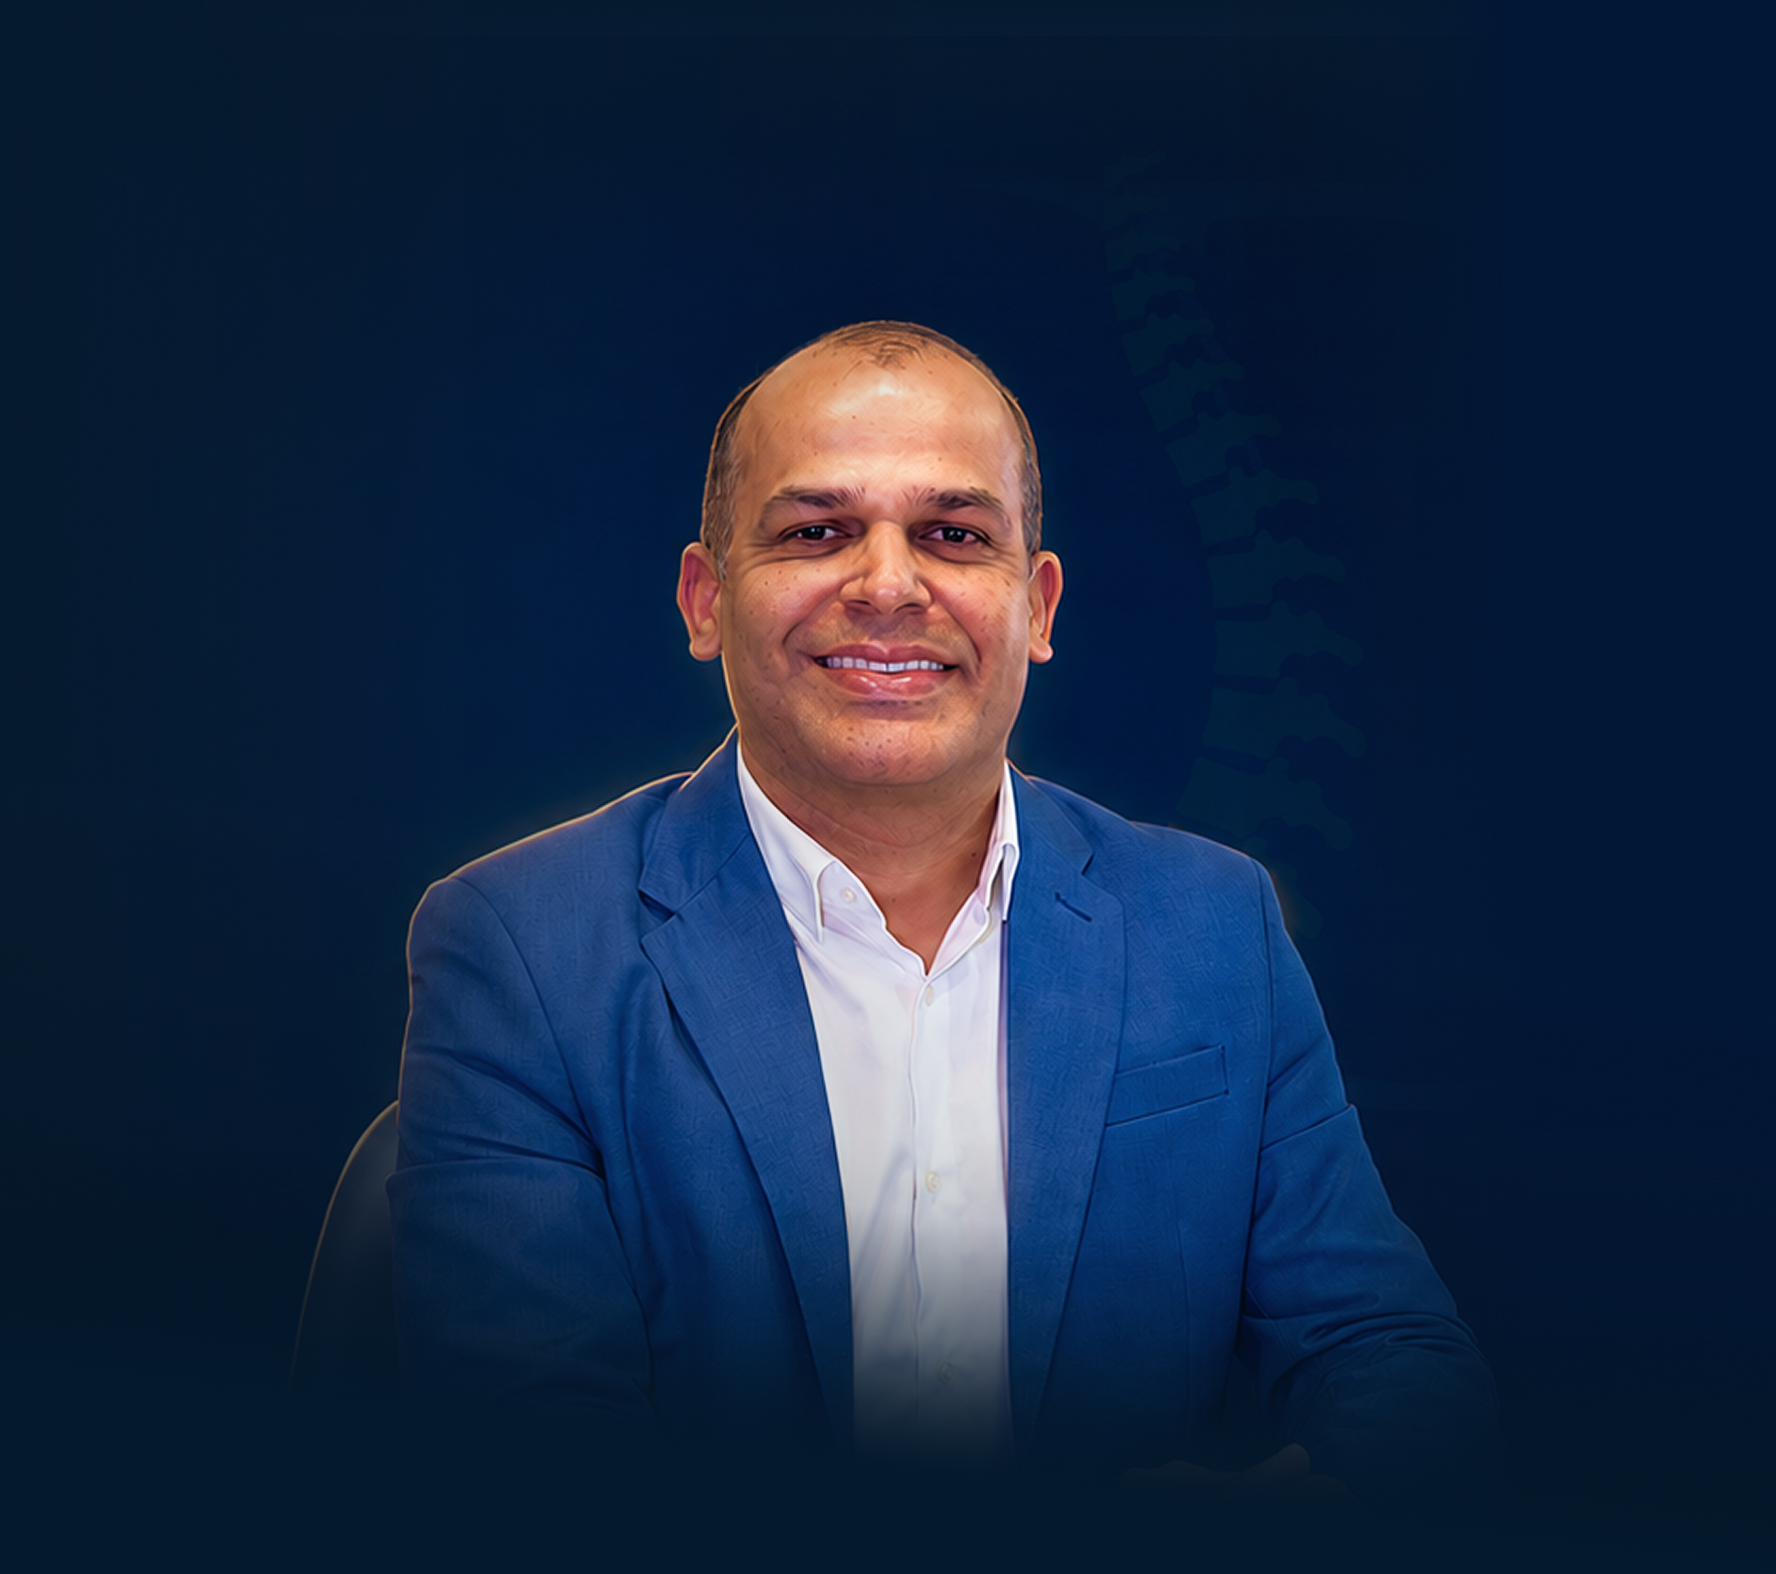
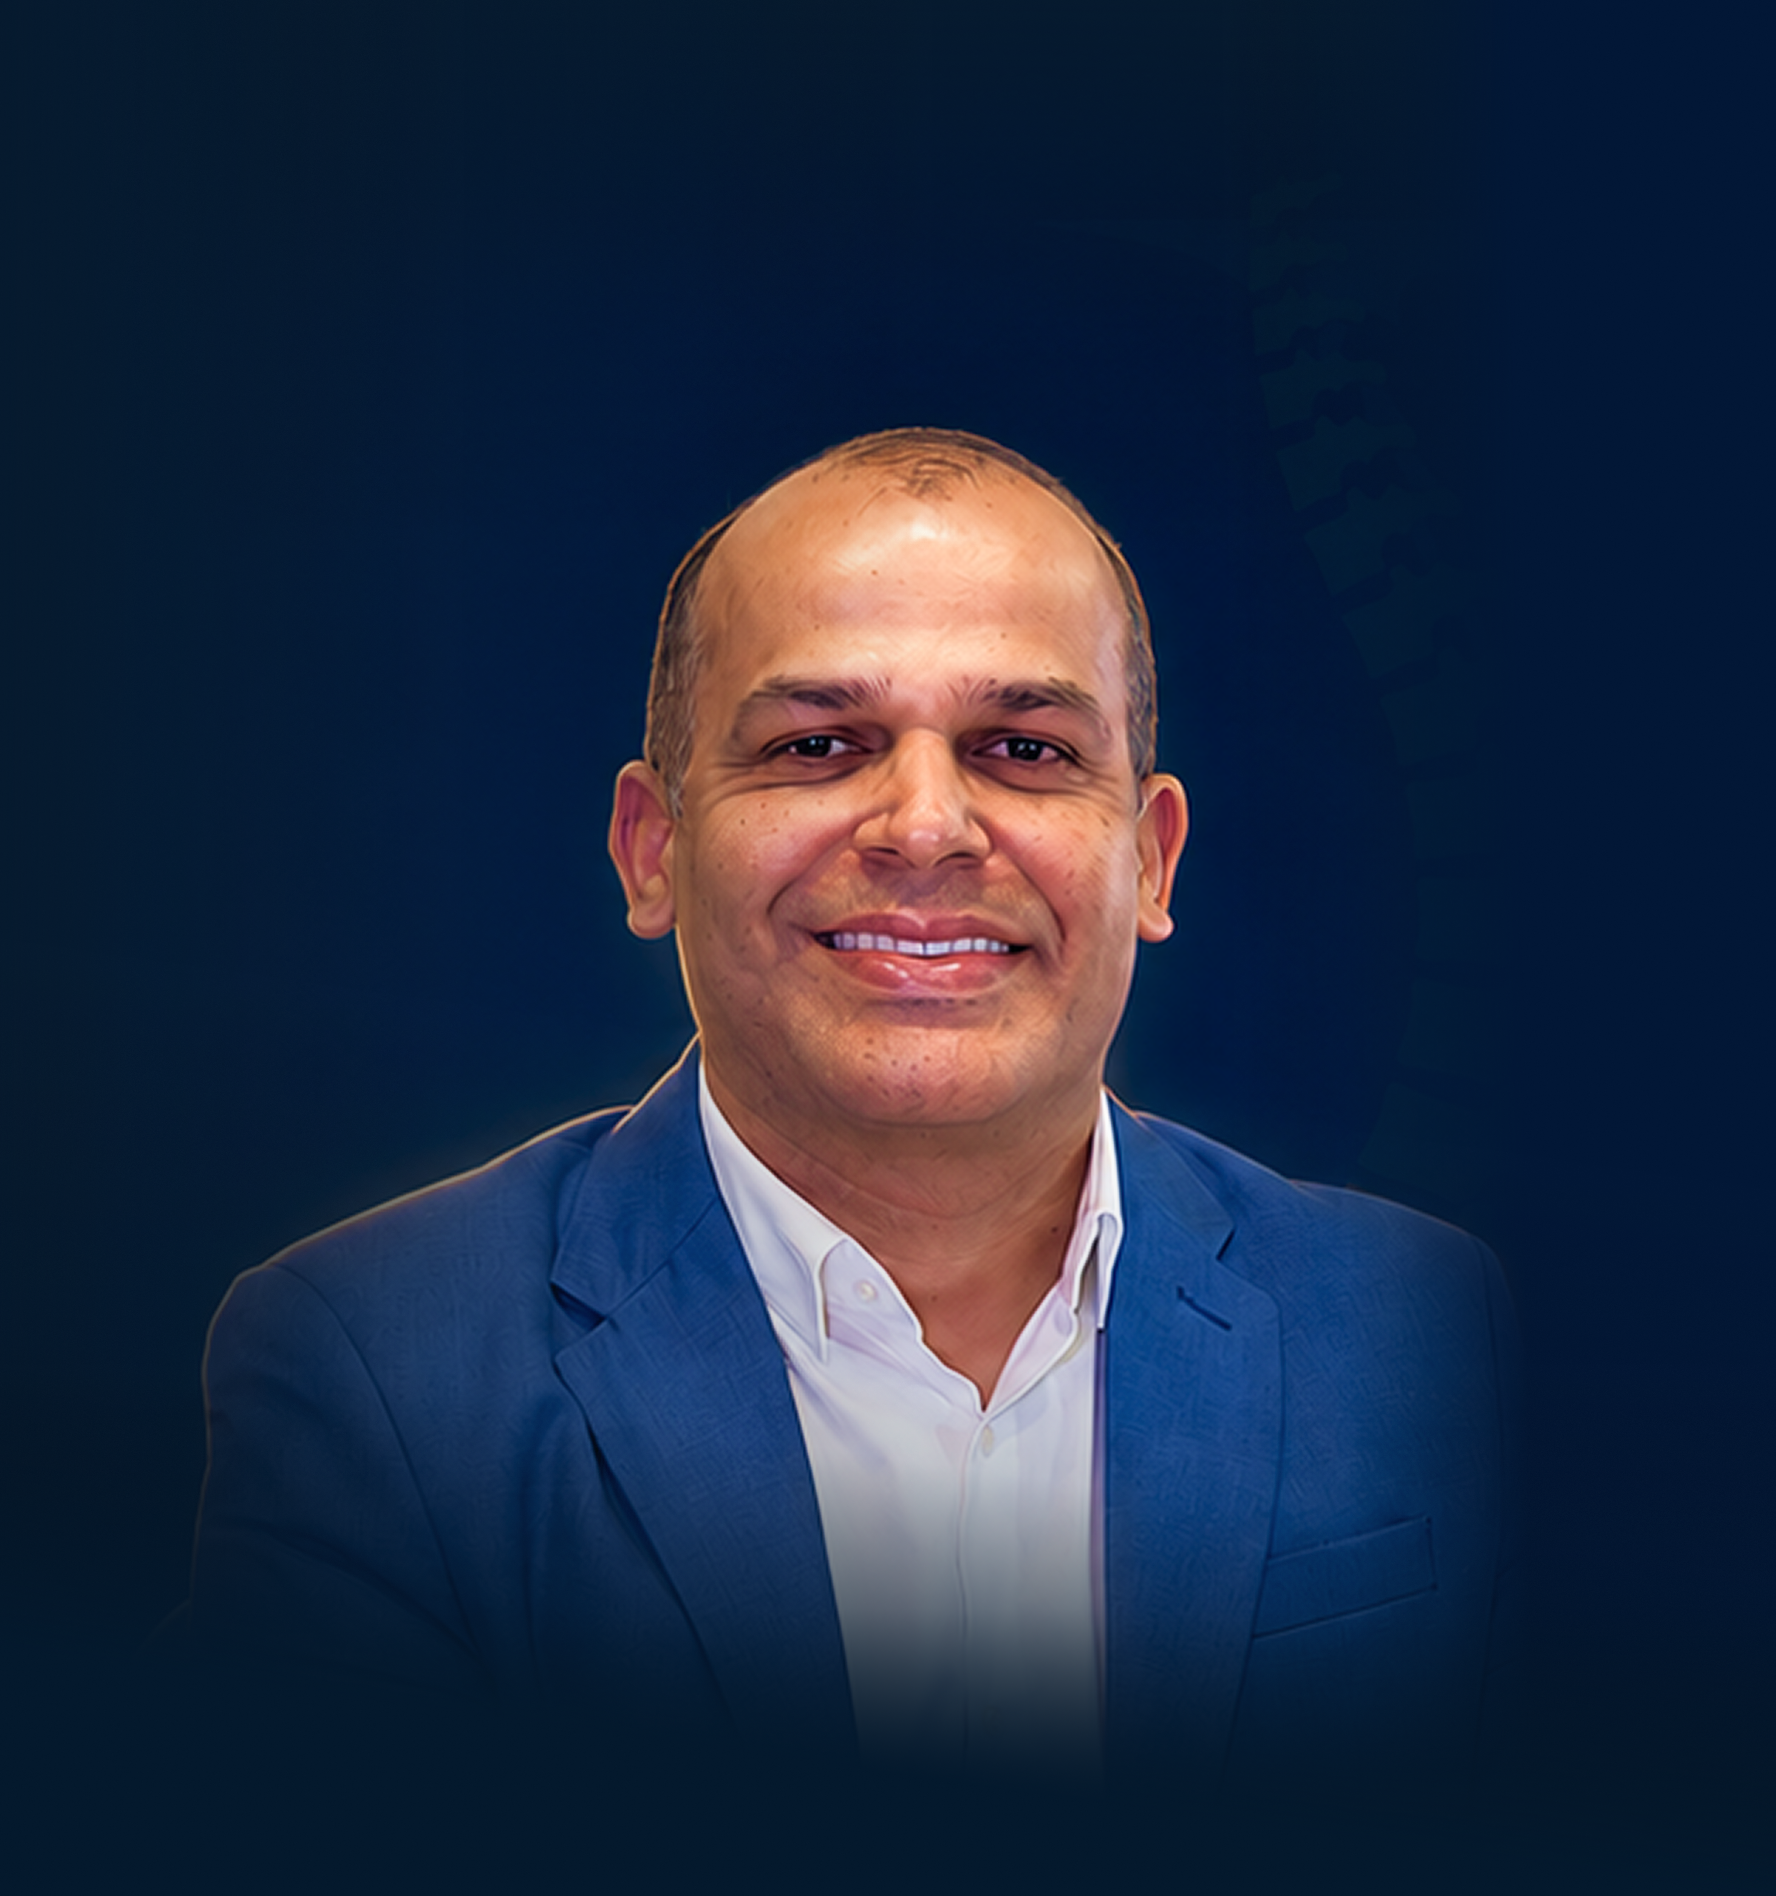
🎨 style: ajusta fonte da nav, h1/eyebrow da hero mobile e atualiza imagens

Changed region(s): [[0.1239, 0.1868, 0.8361, 0.9028]]

diff --git a/components/sections/Hero.tsx b/components/sections/Hero.tsx
@@ -29,12 +29,12 @@ export default function Hero() {
       <div className="relative mx-auto w-full max-w-[1400px] bg-[#04192D] px-4 py-10 sm:px-6 lg:mt-[64px] lg:bg-transparent lg:px-8 lg:py-0">
         <div className="mx-auto max-w-xl text-center lg:mx-0 lg:text-left">
           <div className="text-ivory/70 mb-6 flex flex-wrap items-center justify-center gap-3 font-sans text-sm tracking-wide uppercase lg:justify-start">
-            <span>Neurocirurgião em Recife</span>
+            <span>Neurocirurgião</span>
             <span className="bg-ivory/40 size-1 rounded-full" aria-hidden />
             <span>Especialista em coluna</span>
           </div>
 
-          <h1 className="text-ivory font-poppins text-4xl leading-tight font-normal">
+          <h1 className="text-ivory font-poppins text-[32px] leading-tight font-normal lg:text-4xl">
             Por trás de cada coluna existe uma história. A sua merece ser olhada
             de forma única.
           </h1>

diff --git a/components/Header.tsx b/components/Header.tsx
@@ -31,7 +31,7 @@ export default function Header() {
               <Link
                 key={href}
                 href={href}
-                className="text-ink hover:text-navy font-sans text-sm font-medium transition-colors"
+                className="text-ink hover:text-navy font-poppins text-base font-medium transition-colors"
               >
                 {label}
               </Link>